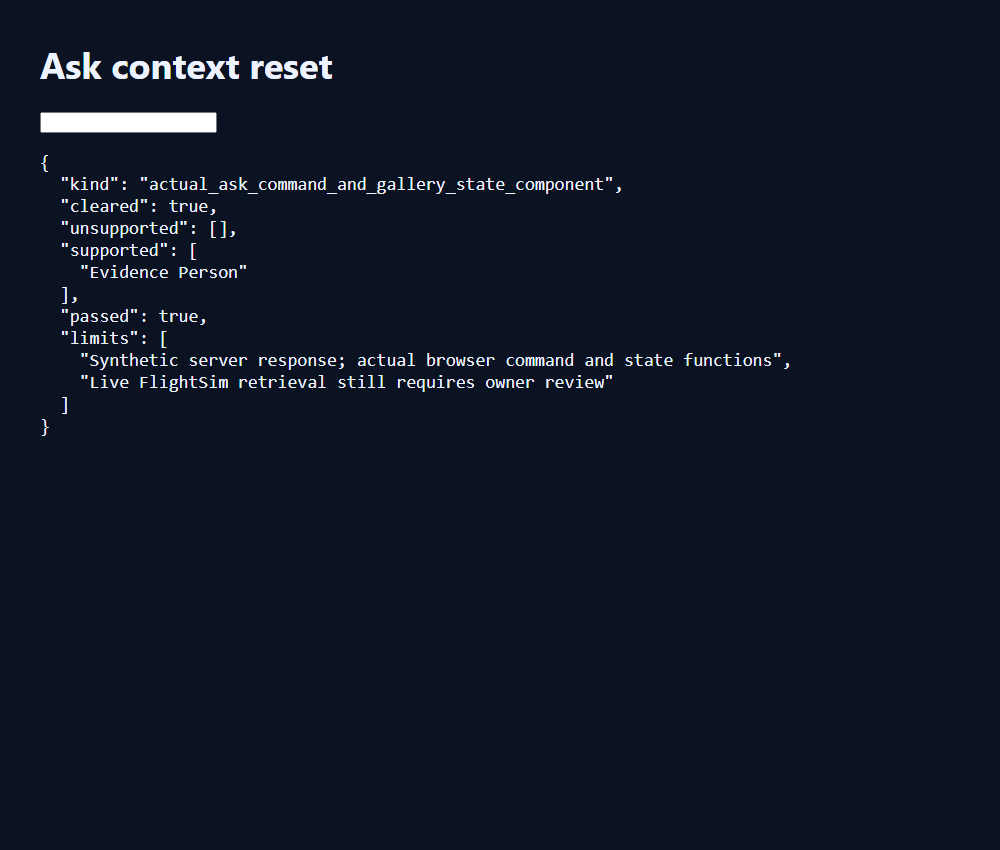
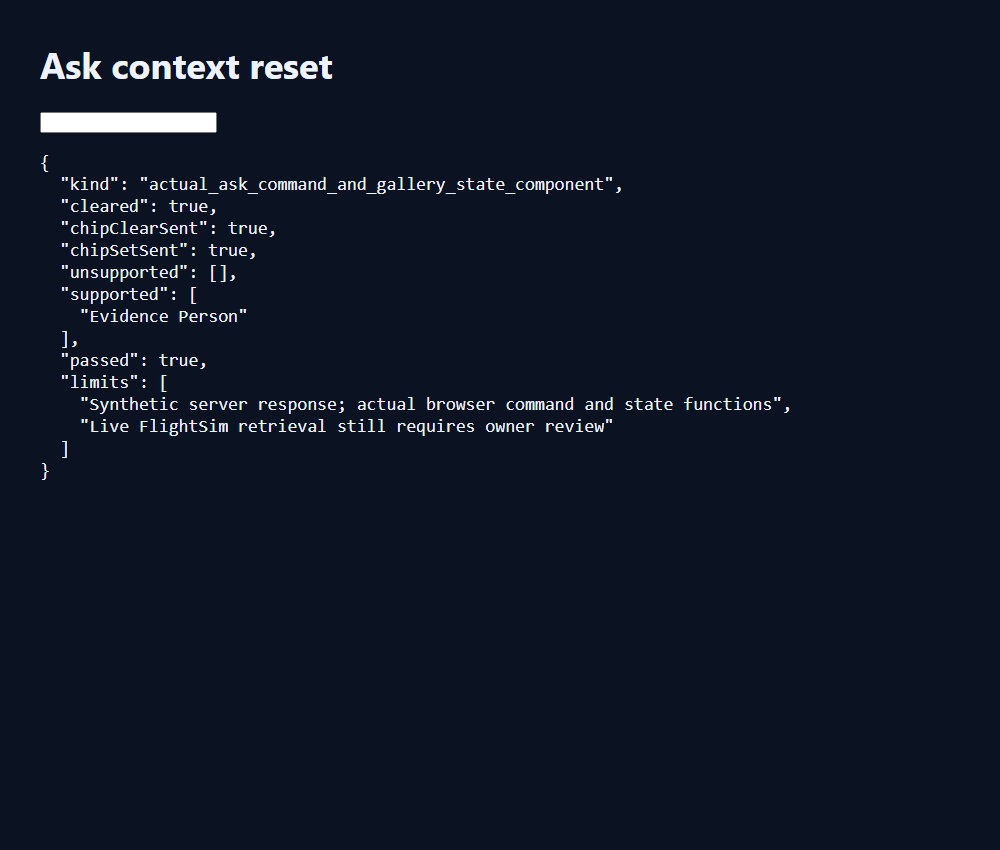
Carry Gallery place chip edits into Ask context and update deployment status

Changed region(s): [[0.062, 0.2447, 0.775, 0.52]]

diff --git a/memorybox/explore/static/explore.js b/memorybox/explore/static/explore.js
@@ -130,6 +130,7 @@
   let peopleOptions = [];
   let liveMode = true;
   let sessionId = null;
+  let contextPlaceOverride = null;
   let bandDrag = null;
   let handleDrag = null;
   let handleDragMeta = null;
@@ -747,11 +748,15 @@
   function setPlaceFilter(label) {
     const next = label ? String(label).trim() : "";
     state.domain.placeFilter = next || null;
+    contextPlaceOverride = next ? [next] : [];
+    bumpFindGen();
     state.domain.mapRefineIds = null;
     syncTimelineToEligibleDatedExtent();
   }
 
   function clearPlaceFilter() {
+    contextPlaceOverride = [];
+    bumpFindGen();
     state.domain.placeFilter = null;
     state.domain.mapRefineIds = null;
     syncTimelineToEligibleDatedExtent();
@@ -1233,7 +1238,8 @@
       const res = await fetch("/explore/api/find" + qs, {
         method: "POST",
         headers: { "Content-Type": "application/json" },
-        body: JSON.stringify({ ask: q, session_id: sessionId || null }),
+        body: JSON.stringify({ ask: q, session_id: sessionId || null,
+          context_place_names: contextPlaceOverride }),
         cache: "no-store",
         ...(ctrl ? { signal: ctrl.signal } : {}),
       });
@@ -1378,6 +1384,7 @@
   }
 
   function applyPayloadToState(payload, { keepPresentation } = {}) {
+    contextPlaceOverride = null;
     if (payload.context && payload.context.reset) {
       keepPresentation = false;
       if (window.mbShell && window.mbShell.setActivePerson) {

diff --git a/tests/browser_i13_context.py b/tests/browser_i13_context.py
@@ -32,27 +32,37 @@ async def run(endpoint):
         code=(ROOT/"memorybox/explore/static/explore.js").read_text(encoding="utf-8")
         extracted = code[code.index("  function applyPayloadToState("):code.index("  const ASK_HIST_KEY")]
         extracted += code[code.index("  function peopleList("):code.index("  function syncRailTabs(")]
+        extracted += code[code.index("  function setPlaceFilter("):code.index("  function setViewMode(")]
+        extracted += code[code.index("  async function liveFind("):code.index("  function currentAskText(")]
         start = code.index("  function applyAskCommand(")
         extracted += code[start:code.index("\n  function ", start + 10)]
         expression = """(async()=>{
  document.body.style='background:#0b1222;color:#edf3ff;font:18px system-ui;padding:32px';
  document.body.innerHTML='<h1>Ask context reset</h1><input id="mb-explore-ask" value="clear all"><pre id="result"></pre>';
- let state={domain:{chips:[{kind:'person',label:'Previous Person'}],typeFilter:'video',undatedFilter:true},gallery:{density:1,sort:'oldest',scrollTop:999}}, rawItems=[],sessionId='old',findGen=0;
+ let state={domain:{chips:[{kind:'person',label:'Previous Person'}],typeFilter:'video',undatedFilter:true},gallery:{density:1,sort:'oldest',scrollTop:999}}, rawItems=[],sessionId='old',findGen=0,contextPlaceOverride=null;
  const PERSON_MODE=false;const PERSON=null;
  const clearAskDirty=()=>{},rememberAskLocal=()=>{},hideQuickPreview=()=>{},clearSearchingChrome=()=>{},syncTimelineToEligibleDatedExtent=()=>{};
  const bumpFindGen=()=>++findGen;
  const extentOf=()=>({empty:true}),isDated=()=>false;
  const findErrorMessage=e=>String(e),renderCurator=()=>{};
  const render=()=>{document.getElementById('result').textContent=JSON.stringify(state,null,2)};
- const liveFind=async q=>{if(q!=='clear all')throw Error('wrong command');return {session_id:'fresh',context:{reset:true},items:[],chips:[],summary:'All Ask context cleared.',ask_text:''}};
+ const requests=[];
+ const personScopedAsk=q=>q,stopAskStatusPoll=()=>{};
+ window.fetch=async(url,opts)=>{requests.push(JSON.parse(opts.body));return {ok:true,json:async()=>({session_id:'fresh',context:{reset:true},items:[],chips:[],summary:'All Ask context cleared.',ask_text:''})}};
  """ + extracted + """
+ clearPlaceFilter();
+ await liveFind('at Christmas');
+ const chipClearSent=Array.isArray(requests[0].context_place_names)&&requests[0].context_place_names.length===0;
+ setPlaceFilter('Florida');
+ await liveFind('at Christmas');
+ const chipSetSent=requests[1].context_place_names.join()==='Florida';
  applyAskCommand('clear all');
  await new Promise(r=>setTimeout(r,25));
  const cleared=state.domain.typeFilter==='all'&&!state.domain.undatedFilter&&state.domain.chips.length===0&&state.modal.openId===null&&sessionId==='fresh'&&rawItems.length===0;
  state.domain.chips=[{kind:'person',label:'Query Person'}];
  const unsupported=peopleList({title:'Query Person',type:'photo',people:[]});
  const supported=peopleList({type:'photo',people:['Evidence Person']});
- const proof={kind:'actual_ask_command_and_gallery_state_component',cleared,unsupported,supported,passed:cleared&&unsupported.length===0&&supported.join()==='Evidence Person',limits:['Synthetic server response; actual browser command and state functions','Live FlightSim retrieval still requires owner review']};
+ const proof={kind:'actual_ask_command_and_gallery_state_component',cleared,chipClearSent,chipSetSent,unsupported,supported,passed:cleared&&chipClearSent&&chipSetSent&&unsupported.length===0&&supported.join()==='Evidence Person',limits:['Synthetic server response; actual browser command and state functions','Live FlightSim retrieval still requires owner review']};
  document.getElementById('result').textContent=JSON.stringify(proof,null,2);
  return proof;
 })()"""

diff --git a/tests/test_i13_ask_context.py b/tests/test_i13_ask_context.py
@@ -127,5 +127,42 @@ class CompactTimelineTests(unittest.TestCase):
         self.assertEqual([r["id"] for r in rows], ["feature"])
         self.assertTrue(client._person_lib_incomplete)
 
+class PlaceChipTests(unittest.TestCase):
+    def test_removed_place_does_not_return_on_christmas_followup(self):
+        from memorybox.ask.context_commands import override_places
+        store = InMemoryContextStore()
+        old = store.save(AskContext(session_id="alaska", person_names=("Example Person",), place_names=("Alaska",), event_labels=("trip:Alaska",), result_selection=("alaska-photo",)))
+        edited = override_places(store, old.session_id, [])
+        plan = plan_ask("at Christmas", edited)
+        self.assertEqual(plan.person_names, old.person_names)
+        self.assertFalse(plan.place_names)
+        self.assertFalse(any("Alaska" in e for e in plan.event_labels))
+        self.assertTrue(any("Christmas" in e for e in plan.event_labels))
+        self.assertFalse(edited.result_selection)
+        store.save(old)
+        self.assertFalse(store.get(edited.session_id).place_names)
+
+    def test_reenabled_chip_replaces_place_without_losing_person_or_time(self):
+        from memorybox.ask.context_commands import override_places
+        store = InMemoryContextStore()
+        old = store.save(AskContext(session_id="old", person_names=("Example Person",), place_names=("Alaska",), time_start="2018", time_end="2018", event_labels=("Christmas",)))
+        edited = override_places(store, old.session_id, ["Florida"])
+        self.assertEqual(edited.place_names, ("Florida",))
+        self.assertEqual(edited.person_names, old.person_names)
+        self.assertEqual(edited.time_start, "2018")
+        self.assertEqual(edited.event_labels, ("Christmas",))
+
+    def test_find_applies_override_before_asking(self):
+        import types
+        from test_i13_stage_a import function
+        store = InMemoryContextStore()
+        store.save(AskContext(session_id="old", person_names=("Example Person",), place_names=("Alaska",)))
+        def ask(text, session_id):
+            self.assertFalse(store.get(session_id).place_names)
+            self.assertEqual(store.get(session_id).person_names, ("Example Person",))
+            return {"answer_kind":"context_cleared", "session_id":session_id, "context":{}}
+        build = function("memorybox/explore/find.py", "build_explore_find")
+        build(ask_text="at Christmas", session_id="old", orchestrator=types.SimpleNamespace(store=store, ask=ask), context_place_names=[])
+
 if __name__ == "__main__":
     unittest.main()

diff --git a/memorybox/explore/find.py b/memorybox/explore/find.py
@@ -1100,6 +1100,7 @@ def build_explore_find(
     session_id: str | None = None,
     orchestrator: Any | None = None,
     present: str | None = None,
+    context_place_names: list[str] | None = None,
 ) -> dict[str, Any]:
     """Run Ask and return an Explore-ready payload (same shape as demo_payload)."""
     text = (ask_text or "").strip()
@@ -1125,6 +1126,11 @@ def build_explore_find(
 
         orchestrator = AskOrchestrator(store=default_context_store)
 
+    if context_place_names is not None:
+        from memorybox.ask.context_commands import override_places
+
+        edited = override_places(orchestrator.store, session_id, context_place_names)
+        session_id = edited.session_id
     result_obj = orchestrator.ask(text, session_id=session_id)
     result = result_obj.to_dict() if hasattr(result_obj, "to_dict") else dict(result_obj)
     if result.get("answer_kind") == "context_cleared":

diff --git a/memorybox/ask/context_commands.py b/memorybox/ask/context_commands.py
@@ -18,3 +18,20 @@ def prepare_context(store, text, session_id, resolve_person):
             store.clear(session_id)
         return store.get_or_create(), True
     return store.get_or_create(session_id), False
+
+
+def override_places(store, session_id, places):
+    """Apply explicit Gallery place edits before planning in a fresh session.
+
+    Omitted edits inherit normally; [] explicitly clears location and trip scope.
+    Rotation prevents an older in-flight Ask from restoring the prior location.
+    """
+    from dataclasses import replace
+    current = store.get_or_create(session_id)
+    fresh = store.get_or_create()
+    return store.save(replace(
+        current, session_id=fresh.session_id,
+        place_names=tuple(places),
+        event_labels=tuple(e for e in current.event_labels if not e.lower().startswith("trip:")),
+        result_selection=(),
+    ))

diff --git a/memorybox/app.py b/memorybox/app.py
@@ -811,9 +811,13 @@ def explore_ask_progress(session_id: str | None = Query(None)) -> dict[str, Any]
     return get_ask_progress(session_id)
 
 
+class ExploreFindRequest(AskRequest):
+    context_place_names: list[str] | None = None
+
+
 @app.post("/explore/api/find")
 def explore_find_post(
-    body: AskRequest,
+    body: ExploreFindRequest,
     present: str | None = Query(
         None,
         description="Presentation overlay: communications|calendar (does not rewrite Ask)",
@@ -830,6 +834,7 @@ def explore_find_post(
             session_id=body.session_id,
             orchestrator=orch,
             present=present,
+            context_place_names=body.context_place_names,
         )
     except Exception as exc:  # noqa: BLE001
         raise HTTPException(status_code=500, detail=f"explore find failed: {exc}") from exc

diff --git a/docs/implementation/p2-i13-stage-a/ASK-CONTEXT-CORRECTION.md b/docs/implementation/p2-i13-stage-a/ASK-CONTEXT-CORRECTION.md
@@ -17,7 +17,7 @@ Validation: offline context, actual command boundary, planner and membership tes
 
 1. Use the exact correction commit supplied in the review response. Fetch `origin codex/p2-i13-stage-a` from the current release checkout. Inspect `git show --stat` using that literal SHA.
 2. Create a new, unused detached worktree under `C:\MemoryBox-releases`, at that exact SHA. Preserve existing release and `C:\MemoryBox` working trees. Do not pull into or clean the runtime tree.
-3. Run `python -B -m unittest discover -s tests -p test_i13_stage_a.py -v` (33 tests), then `python -B -m unittest discover -s tests -p test_i13_ask_context.py -v` (12 tests). Node is required for the Stage A suite. Run `node --check memorybox/explore/static/explore.js`.
+3. Run `python -B -m unittest discover -s tests -p test_i13_stage_a.py -v` (33 tests), then `python -B -m unittest discover -s tests -p test_i13_ask_context.py -v` (15 tests). Node is required for the Stage A suite. Run `node --check memorybox/explore/static/explore.js`.
 4. Use the existing approved `launch-locked.py` arrangement from the new release, updating the expected SHA to the correction SHA. Keep existing inherited database/Qdrant settings and reviewed source/derived/Capture paths. Run check-only first. No migration is needed.
 5. Stop the two existing service windows with Ctrl-C; verify ports 8790/8791 clear. Start app and worker through that locked launcher with the reviewed deployment reference. Both drains remain off; admission remains unset. Do not run `startmb.cmd` or register an admission.
 6. Confirm the loaded release SHA, Explore and Capture accessibility, and the same dummy recognition/speech probes returning 403 `processing_locked_no_admission`.
@@ -30,3 +30,11 @@ Validation: offline context, actual command boundary, planner and membership tes
 Tom reported zero photos and 48 video moments after deploying 162b996 and using clear all. Code inspection confirms compact timeline assets lack membership, while the fallback metadata request did not ask for withPeople and a single feature-face hit prevented fallback. Corrected: compact-response rejection triggers the existing paginated metadata search with withPeople=true, retaining strict asset membership. Detailed verified rows enrich feature-face stubs. Existing timeout limits remain; a provider failure can still prevent photos returning. Old subset caches are excluded by a new cache version without deleting files. Offline response-shape regression tests are required; actual FlightSim results remain pending. No recognition or transcription is run by this correction.
 
 Verification for this follow-up: 12 context/provider tests and 33 Stage A tests pass (45 total), including actual HTTP-client request/response flow with synthetic compact payloads, explicit metadata membership, feature-face enrichment, unrelated asset rejection and timeout. No live provider call was made.
+
+## Place chip context correction
+
+Tom's live verification: Tom then Alaska works; removing the Alaska chip then asking at Christmas restores Alaska and returns no Gallery. Combined fresh Christmas searches and Eugene/Florida work. Confirmed cause: clearPlaceFilter changed only browser state.
+
+The Find POST now carries an optional context_place_names override. Omitted/null preserves normal inheritance; an empty list clears location and inherited trip labels. An explicit list re-enables/replaces location. The server applies the edit before Ask planning in a new context session, preserving Person, ordinary events and date scope while clearing stale selected results. Browser chip edits invalidate older displayed query results; successful payload adoption consumes the pending edit. This adds no extra HTTP round trip or provider request. It does not refresh the retrieved pool merely by toggling a chip; the next Ask retrieves against the edited context.
+
+Verification: 15 context/provider tests plus 33 Stage A tests (48), Node syntax and rendered actual chip setters / Find request functions with synthetic server responses. Live acceptance remains pending. Retest: show me Tom Will -> in Alaska -> toggle Alaska off -> at Christmas; Alaska must remain absent and Tom must remain selected. Re-enable a place chip and verify the next Ask retains that place. No migration, runtime processing, conversion or I12 edits.

diff --git a/docs/implementation/p2-i13-stage-a/DEPLOYMENT-PLAN.md b/docs/implementation/p2-i13-stage-a/DEPLOYMENT-PLAN.md
@@ -2,6 +2,17 @@
 
 This is a step-by-step proposal, not deployment authorization. The agent performed no deployment, runtime migration, recognition, transcription, cleanup, quarantine, deletion, or corpus/archive processing. Review this commit first. **Do not run `startmb.ps1`, `startmb.cmd`, a legacy prove command, migration, Learn, or an archive pass as a shortcut through the gates below.** Existing startup scripts may migrate and start drains.
 
+## Current position - founder reports, 2026-09-05
+
+**Gate 2, steps 14-15: locked-deployment verification and founder review.** This status supersedes historical pending/start instructions below; do not repeat migration or backup work merely because the original procedure remains documented.
+
+- Gate 1 preparation and exact 22-source membership review completed. Owner annotations/voice acceptance remain separate.
+- Backup restored and compared; final maintenance backup retained; Tom reported migration 030 committed. No further migration is needed for Ask corrections.
+- Locked app/worker deployment completed. Prior lock probes returned 403; Explore and Capture screens opened. This is not a full live I12 workflow re-prove.
+- Tom reports current photo Gallery corrected; Tom/Eugene named queries and combined Christmas/Florida queries work. A removed Alaska chip returns on the next Ask: context verification remains open.
+- Next: deploy and verify the place-chip context correction, then record founder review at step 15. Response-time recovery and full source playback remain unconfirmed.
+- Gate 3 bounded processing has NOT started. Gate 4 archive acceptance/unlock/start has NOT started. Keep drains off and admission unset. Unplayable sources, fragment presentation and face/voice learning acceptance remain outstanding; no cleanup or conversion is authorized by this status update.
+
 ## Gate 1 - Review and prepare, without running the application
 
 1. Review `FOUNDER-AUTHORIZATION.md`, `README.md`, the code diff, migration 030, runtime/source inventories, tests, and playback screenshot. Record the exact Stage A commit accepted by the founder. Do not use a moving branch tip as the deployment identity.
